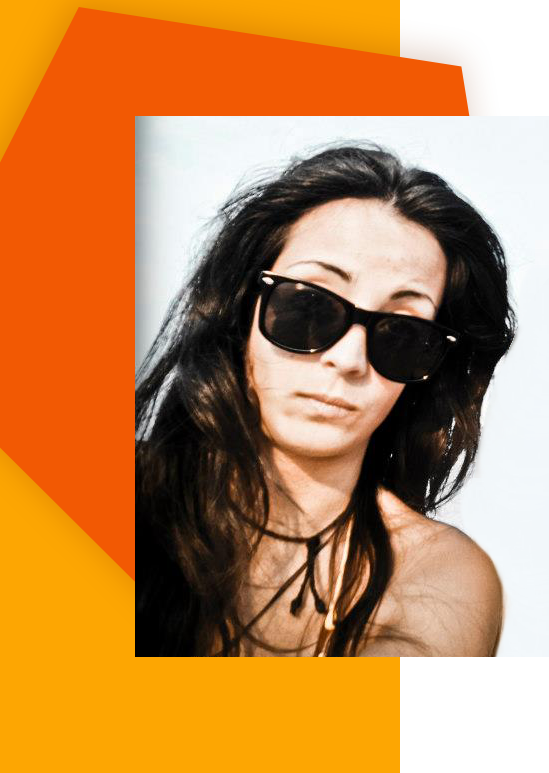
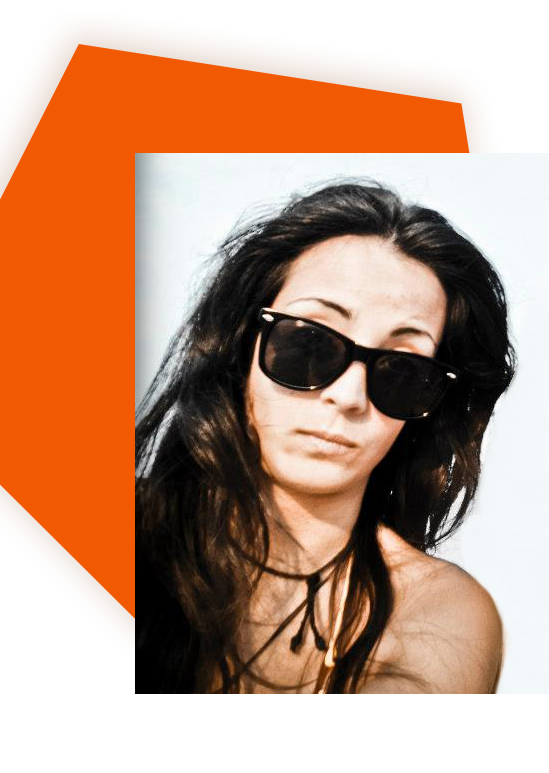
flex

diff --git a/css/style.css b/css/style.css
@@ -1,4 +1,7 @@
 @import url('https://fonts.googleapis.com/css2?family=Black+Han+Sans&family=Wix+Madefor+Display:wght@400..800&display=swap');
+* {
+    box-sizing: border-box;
+} 
 
 body {
     color:#6b6b6b;
@@ -12,6 +15,9 @@ body {
     border-radius: 8px;
     margin: 2% auto;
     background-color: white;
+    display: grid;
+    grid-template-columns: auto auto;
+    align-items: center;
 }
 .sopratitolo {
     margin: 0;
@@ -25,33 +31,42 @@ body {
 h1, h3 {
     color: #222;  
 }
+/*.foto, .testo {
+    display: inline-block;
+    vertical-align: middle;
+}*/
 img {
-    height: 100%;
     max-width: 100%;
     border-radius: 8px;
 }
-.foto, .testo {
-    display: inline-block;
-    vertical-align: middle;
-}
 .foto {
-    width: 45%;
-    line-height: 0;
+    /*width: 45%;
+    line-height: 0;*/
+    height: 100%;
+    background: #fca603;
+    background: linear-gradient(90deg, #fca603 0%, #fca603 73%, #fff 73%);
+    border-radius: 8px;
 }
 .foto img {
+    display: block;
     max-height: 93vh;
 }
 .testo {
-    width: 34.5%;
+    /*width: 34.5%;*/
     padding: 5% 10%;
 }
 ul {
     padding-left: 15px;
+    list-style-type: circle;
 }
 ul a {
     text-decoration: none;
     color: #ba7b57;
 }
-.nando {
-    max-width: 75%;
+.gif {
+    display: flex;
+    justify-content: space-between;
+}
+.gif img {
+    max-width: 49%;
 }

diff --git a/index.html b/index.html
@@ -25,7 +25,10 @@
                         <a href="https://it.wikipedia.org/wiki/Fernando_Alonso" target="_blank">Fernando Alonso</a>
                     </li>
                 </ul>
-                <img class="nando" src="https://media2.giphy.com/media/v1.Y2lkPTc5MGI3NjExOTVxcjE1bmcycmszamp5b2R4aTRlZ3VoY2RybmRjNDhtNWYxbW16eCZlcD12MV9pbnRlcm5hbF9naWZfYnlfaWQmY3Q9Zw/7JQD2eBmQULZwQvG5O/giphy.gif" alt="">
+                <div class="gif">
+                    <img src="https://i.pinimg.com/originals/3e/eb/a0/3eeba069fd3d3f7cc835af7f0aca00f5.gif" alt="">
+                    <img src="https://media2.giphy.com/media/v1.Y2lkPTc5MGI3NjExOTVxcjE1bmcycmszamp5b2R4aTRlZ3VoY2RybmRjNDhtNWYxbW16eCZlcD12MV9pbnRlcm5hbF9naWZfYnlfaWQmY3Q9Zw/7JQD2eBmQULZwQvG5O/giphy.gif" alt="">
+                </div>
             </div>
         </div>        
     </body>
